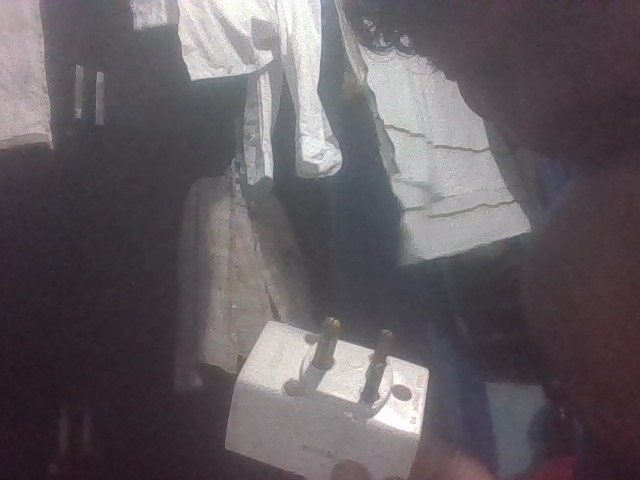
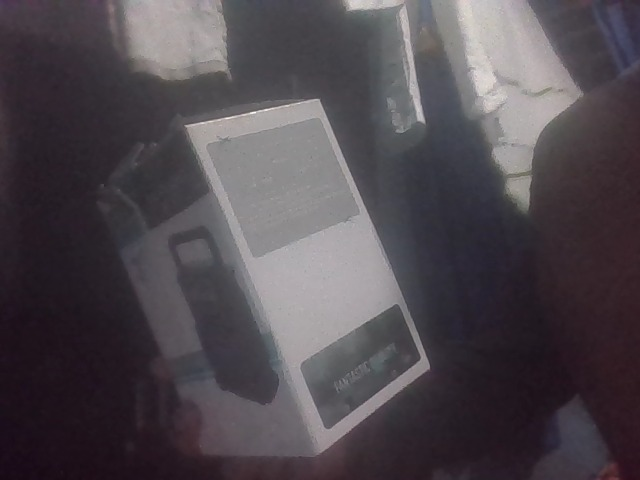
Created Dashboard

diff --git a/templates/dashboard.html b/templates/dashboard.html
@@ -1,0 +1,81 @@
+<!DOCTYPE html>
+<html>
+<head>
+    <title>Waste Detection Dashboard</title>
+
+    <style>
+
+        body{
+            font-family: Arial, sans-serif;
+            margin:30px;
+        }
+
+        h1{
+            text-align:center;
+        }
+
+        table{
+            width:100%;
+            border-collapse:collapse;
+        }
+
+        th, td{
+            border:1px solid #000;
+            padding:10px;
+            text-align:center;
+        }
+
+        th{
+            background:#f2f2f2;
+        }
+
+        img{
+            width:120px;
+            height:auto;
+        }
+
+    </style>
+</head>
+<body>
+
+<h1>Waste Detection Dashboard</h1>
+
+<table>
+
+<tr>
+    <th>ID</th>
+    <th>Detected Image</th>
+    <th>Category</th>
+    <th>Confidence</th>
+    <th>Date & Time</th>
+</tr>
+
+{% for row in detections %}
+
+<tr>
+
+    <td>{{ row[0] }}</td>
+
+    <td>
+        <img
+        src="{{ url_for('static',
+        filename='detections/' + row[1]) }}"
+        alt="Detection Image">
+    </td>
+
+    <td>{{ row[2] }}</td>
+
+    <td>
+        {{ "%.2f"|format(row[3] * 100) }}%
+    </td>
+
+    <td>{{ row[4] }}</td>
+
+</tr>
+
+{% endfor %}
+
+</table>
+
+</body>
+</html>

diff --git a/app.py b/app.py
@@ -1,18 +1,61 @@
 from flask import Flask, render_template, request, send_file
 from ultralytics import YOLO
+from datetime import datetime
+import sqlite3
 import os
 import shutil
+import uuid
 
 app = Flask(__name__)
 
-# Load model
+# Load YOLO model
 model = YOLO("best.pt")
 
 UPLOAD_FOLDER = "uploads"
 RESULT_FOLDER = "results"
+STATIC_DETECTION_FOLDER = os.path.join(
+    "static",
+    "detections"
+)
 
 os.makedirs(UPLOAD_FOLDER, exist_ok=True)
 os.makedirs(RESULT_FOLDER, exist_ok=True)
+os.makedirs(STATIC_DETECTION_FOLDER, exist_ok=True)
+
+
+def save_detection(
+    image_name,
+    category,
+    confidence
+):
+
+    conn = sqlite3.connect("waste.db")
+
+    cursor = conn.cursor()
+
+    cursor.execute(
+        """
+        INSERT INTO detections
+        (
+            image_name,
+            category,
+            confidence,
+            timestamp
+        )
+        VALUES (?, ?, ?, ?)
+        """,
+        (
+            image_name,
+            category,
+            confidence,
+            datetime.now().strftime(
+                "%Y-%m-%d %H:%M:%S"
+            )
+        )
+    )
+
+    conn.commit()
+    conn.close()
 
 
 @app.route("/")
@@ -23,7 +66,6 @@ def home():
 @app.route("/upload", methods=["POST"])
 def upload():
 
-    # Save captured image
     image_path = os.path.join(
         UPLOAD_FOLDER,
         "captured.jpg"
@@ -38,16 +80,23 @@ def upload():
         save=True
     )
 
-    # YOLO output folder
-    predict_folder = str(results[0].save_dir)
+    predict_folder = str(
+        results[0].save_dir
+    )
 
-    print("YOLO SAVE DIR:", predict_folder)
-
-    # Find image file created by YOLO
     detected_image = None
 
-    for file in os.listdir(predict_folder):
-        if file.lower().endswith((".jpg", ".jpeg", ".png")):
+    for file in os.listdir(
+        predict_folder
+    ):
+
+        if file.lower().endswith(
+            (
+                ".jpg",
+                ".jpeg",
+                ".png"
+            )
+        ):
             detected_image = os.path.join(
                 predict_folder,
                 file
@@ -55,9 +104,27 @@ def upload():
             break
 
     if detected_image is None:
-        return "No detection image found!", 500
+        return (
+            "No detection image found",
+            500
+        )
 
-    # Copy to fixed location
+    # Unique image name
+    image_name = (
+        str(uuid.uuid4()) + ".jpg"
+    )
+
+    dashboard_image = os.path.join(
+        STATIC_DETECTION_FOLDER,
+        image_name
+    )
+
+    shutil.copy(
+        detected_image,
+        dashboard_image
+    )
+
+    # Latest result image
     final_output = os.path.join(
         RESULT_FOLDER,
         "detected.jpg"
@@ -67,6 +134,27 @@ def upload():
         detected_image,
         final_output
     )
+
+    # Save detections to DB
+    for box in results[0].boxes:
+
+        class_id = int(
+            box.cls[0]
+        )
+
+        category = model.names[
+            class_id
+        ]
+
+        confidence = float(
+            box.conf[0]
+        )
+
+        save_detection(
+            image_name,
+            category,
+            confidence
+        )
 
     return "Detection Complete"
 
@@ -79,13 +167,42 @@ def result():
         "detected.jpg"
     )
 
-    if os.path.exists(result_path):
+    if os.path.exists(
+        result_path
+    ):
         return send_file(
             result_path,
             mimetype="image/jpeg"
         )
 
-    return "No result available yet."
+    return "No result available"
+
+
[email redacted]("/dashboard")
+def dashboard():
+
+    conn = sqlite3.connect(
+        "waste.db"
+    )
+
+    cursor = conn.cursor()
+
+    cursor.execute(
+        """
+        SELECT *
+        FROM detections
+        ORDER BY id DESC
+        """
+    )
+
+    detections = cursor.fetchall()
+
+    conn.close()
+
+    return render_template(
+        "dashboard.html",
+        detections=detections
+    )
 
 
 if __name__ == "__main__":

diff --git a/recreate_db.py b/recreate_db.py
@@ -1,0 +1,21 @@
+import sqlite3
+
+conn = sqlite3.connect("waste.db")
+cursor = conn.cursor()
+
+cursor.execute("DROP TABLE IF EXISTS detections")
+
+cursor.execute("""
+CREATE TABLE detections (
+    id INTEGER PRIMARY KEY AUTOINCREMENT,
+    image_name TEXT,
+    category TEXT,
+    confidence REAL,
+    timestamp TEXT
+)
+""")
+
+conn.commit()
+conn.close()
+
+print("Database recreated")

diff --git a/create_db.py b/create_db.py
@@ -1,0 +1,19 @@
+import sqlite3
+
+conn = sqlite3.connect("waste.db")
+
+cursor = conn.cursor()
+
+cursor.execute("""
+CREATE TABLE IF NOT EXISTS detections (
+    id INTEGER PRIMARY KEY AUTOINCREMENT,
+    category TEXT,
+    confidence REAL,
+    timestamp TEXT
+)
+""")
+
+conn.commit()
+conn.close()
+
+print("Database created successfully")

diff --git a/view_db.py b/view_db.py
@@ -1,0 +1,16 @@
+import sqlite3
+
+conn = sqlite3.connect("waste.db")
+
+cursor = conn.cursor()
+
+cursor.execute(
+    "SELECT * FROM detections"
+)
+
+rows = cursor.fetchall()
+
+for row in rows:
+    print(row)
+
+conn.close()